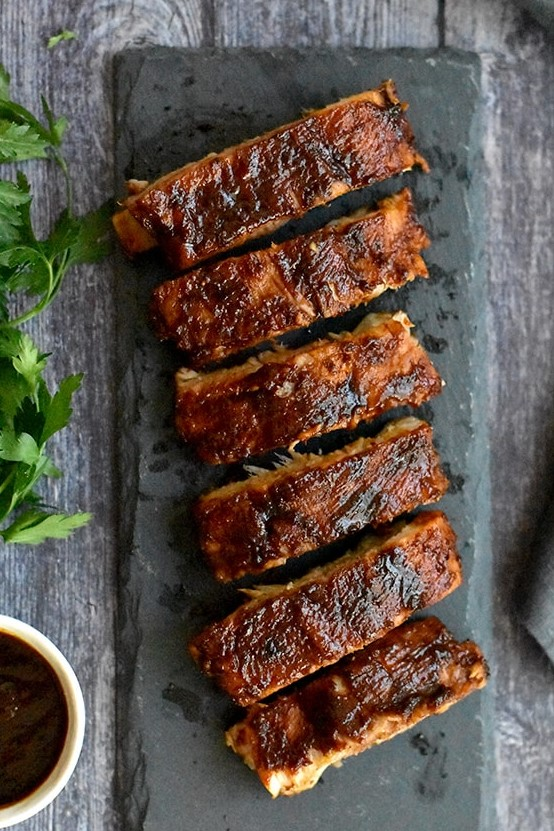
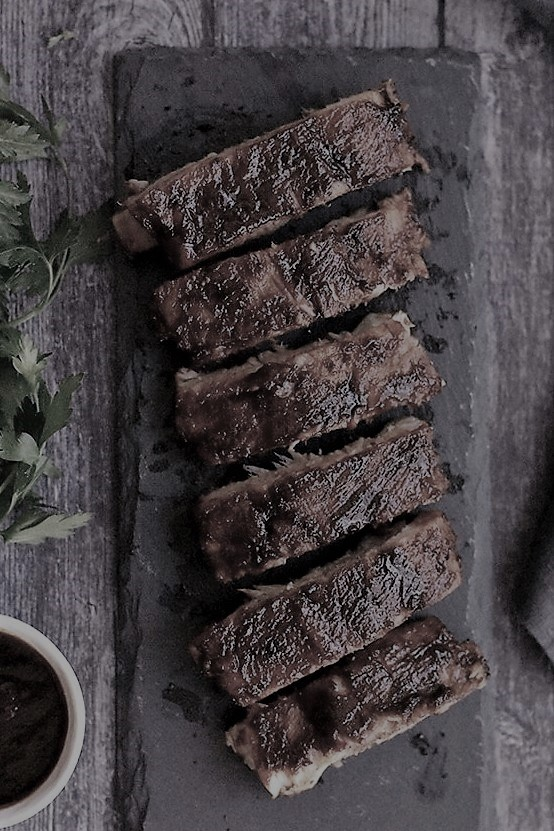
edited img file to add opacity filter; restyled text to be clearer

diff --git a/css/styles.css b/css/styles.css
@@ -17,6 +17,7 @@ h1 {
     font-size: 2.25rem;
     font-weight: 300;
     color: #fff;
+    margin: 2em 0;
 }
 
 h1 + p {
@@ -24,6 +25,7 @@ h1 + p {
     font-weight: 900;
     font-size: 1.3125rem;
     text-transform: uppercase;
+    margin: 0;
 }
 
 h2 {
@@ -40,6 +42,7 @@ h2 + p {
     color: #F18119;
     font-weight: 900;
     text-transform: uppercase;
+    order: -1;
 }
 
 .fine-print {
@@ -56,6 +59,11 @@ strong { font-weight: 900; }
 
 .intro {
     background-image: url(../img/ribs.jpg);
+    background-position: center;
+    background-repeat: no-repeat;
+    background-size: cover;
     background-color: #404040;
     padding: 0 .25em 1em;
+    display: flex;
+    flex-direction: column;
 }
